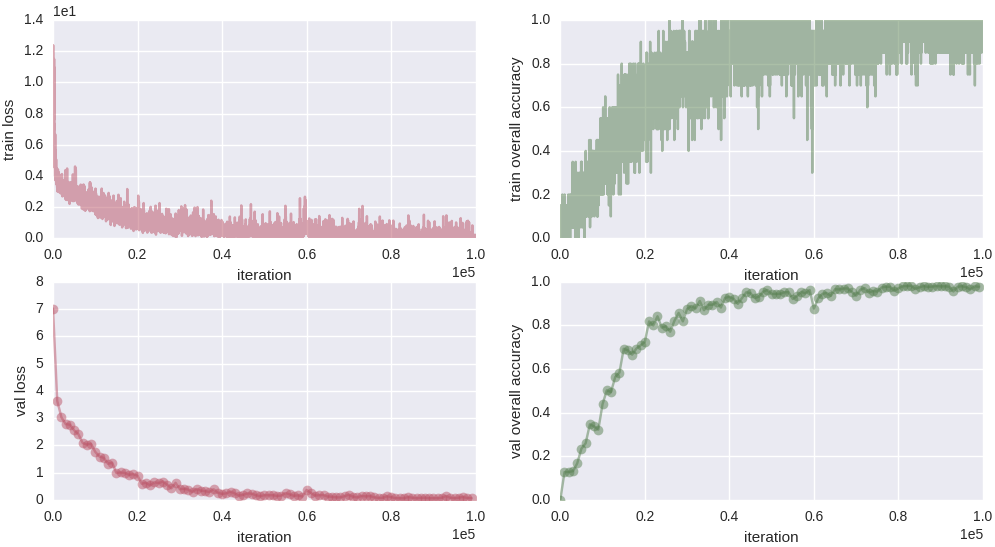
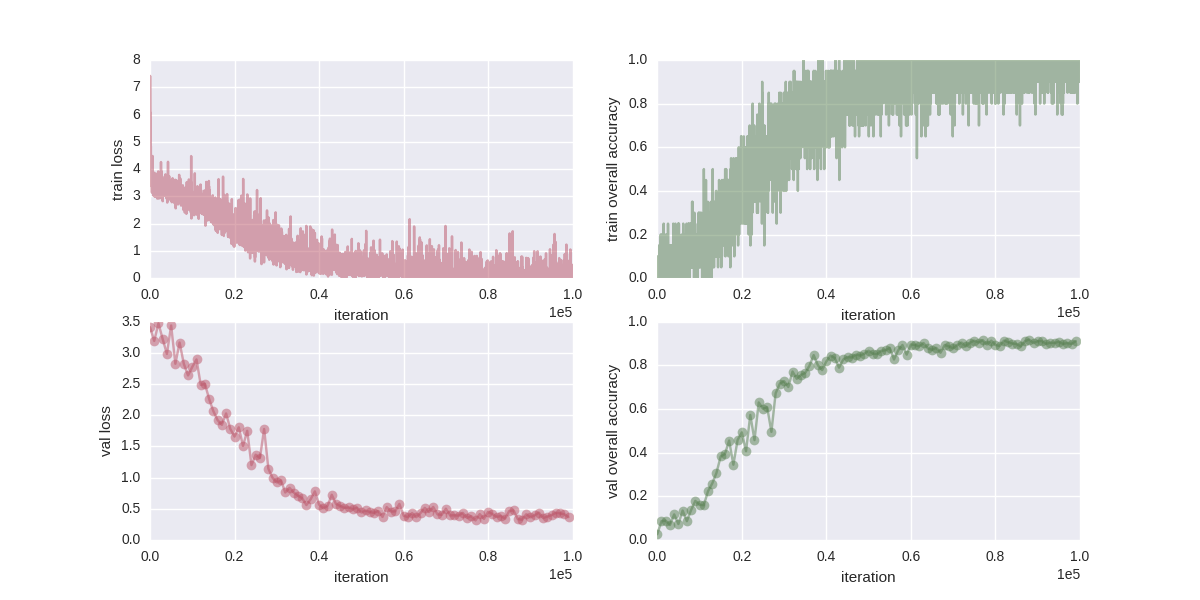
Add dataset of jsk20150428

diff --git a/examples/apc2015/apc2015.py b/examples/apc2015/apc2015.py
@@ -3,6 +3,7 @@
 from __future__ import division
 from __future__ import print_function
 
+from collections import defaultdict
 import cPickle as pickle
 import glob
 import os.path as osp
@@ -62,8 +63,12 @@ class APC2015(Bunch):
         self.mask_files = []
         self.target = []
 
+        self.datasets = defaultdict(list)
         self._load_berkeley()
         self._load_rbo()
+        self._load_jsk20150428()
+        for name, ids in self.datasets.items():
+            print('Loaded {0}: {1}'.format(name, len(ids)))
 
         self.ids = np.array(self.ids)
         self.img_files = np.array(self.img_files)
@@ -81,13 +86,16 @@ class APC2015(Bunch):
         for label_value, label_name in enumerate(self.target_names):
             img_file_glob = osp.join(
                 dataset_dir, label_name, '*.jpg')
-            for img_file in glob.glob(img_file_glob):
+            for i, img_file in enumerate(glob.glob(img_file_glob)):
+                if i % 15 != 0:
+                    continue
                 img_id = re.sub('.jpg$', '', osp.basename(img_file))
                 mask_file = osp.join(
                     dataset_dir, label_name, 'masks',
                     img_id + '_mask.jpg')
                 id_ = osp.join('berkeley', label_name, img_id)
                 self.ids.append(id_)
+                self.datasets['berkeley'].append(id_)
                 self.img_files.append(img_file)
                 self.mask_files.append(mask_file)
                 self.target.append(label_value)
@@ -104,8 +112,25 @@ class APC2015(Bunch):
                 img_file = osp.join(dataset_dir, label_name, img_id + '.jpg')
                 id_ = osp.join('rbo', img_id)
                 self.ids.append(id_)
+                self.datasets['rbo'].append(id_)
                 self.img_files.append(img_file)
                 self.mask_files.append(mask_file)
+                self.target.append(label_value)
+
+    def _load_jsk20150428(self):
+        """Load jsk 20150428 dataset"""
+        dataset_dir = osp.join(this_dir, 'dataset/jsk20150428')
+        for label_value, label_name in enumerate(self.target_names):
+            img_file_glob = osp.join(dataset_dir, label_name, '*.jpg')
+            for i, img_file in enumerate(glob.glob(img_file_glob)):
+                if i % 15 != 0:
+                    continue
+                img_id = re.sub('.jpg$', '', osp.basename(img_file))
+                id_ = osp.join('jsk20150428', img_id)
+                self.ids.append(id_)
+                self.datasets['jsk20150428'].append(id_)
+                self.img_files.append(img_file)
+                self.mask_files.append(None)
                 self.target.append(label_value)
 
     def rgb_to_blob(self, rgb):
@@ -139,9 +164,10 @@ class APC2015(Bunch):
                 img_file = self.img_files[index]
                 mask_file = self.mask_files[index]
                 img = imread(img_file, mode='RGB')
-                mask = imread(mask_file, mode='L')
-                img = fcn.util.apply_mask(img, mask, crop=True,
-                                          fill_black=False)
+                if mask_file is not None:
+                    mask = imread(mask_file, mode='L')
+                    img = fcn.util.apply_mask(img, mask, crop=True,
+                                            fill_black=False)
                 xi = self.rgb_to_blob(img)
                 xt = {'x': xi, 't': ti}
                 self.db.put(str(id_), pickle.dumps(xt))

diff --git a/examples/apc2015/test.py b/examples/apc2015/test.py
@@ -1,0 +1,96 @@
+#!/usr/bin/env python
+
+from __future__ import absolute_import
+from __future__ import division
+from __future__ import print_function
+
+import argparse
+import os
+import os.path as osp
+import tempfile
+
+from chainer import cuda
+import chainer.serializers as S
+from chainer import Variable
+import cv2
+import numpy as np
+from scipy.misc import imsave
+from skimage.util import img_as_float
+from skimage.color import rgb2gray
+from skimage.color import gray2rgb
+
+import apc2015
+import fcn.util
+from vgg16 import VGG16
+
+
+def draw_test_result(dataset, fname, x_data, label_true, label_pred, n_class):
+    cmap = fcn.util.labelcolormap(n_class)
+
+    imgs = []
+    for i, blob in enumerate(x_data):
+        rgb = dataset.blob_to_rgb(blob)
+        rgb = rgb.copy()  # FIXME: this is required to put text
+        if label_true[i] != label_pred[i]:
+            gray = img_as_float(rgb2gray(rgb))
+            rgb = np.array([1.0, 0, 0]) * 0.3 + gray2rgb(gray) * 0.7
+            rgb = (rgb * 255).astype(np.uint8)
+        rgb[:20, :] = cmap[label_pred[i]] * 255
+        cv2.putText(rgb, dataset.target_names[label_pred[i]],
+                    org=(0, 15), fontFace=cv2.FONT_HERSHEY_SIMPLEX,
+                    fontScale=0.5, color=(255, 255, 255), thickness=1)
+        imgs.append(rgb)
+
+    result_img = fcn.util.get_tile_image(imgs)
+    imsave(fname, result_img)
+
+
+def main():
+    parser = argparse.ArgumentParser()
+    parser.add_argument('--gpu', type=int, default=0)
+    args = parser.parse_args()
+
+    gpu = args.gpu
+
+    save_dir = 'test_result'
+    if not osp.exists(save_dir):
+        os.makedirs(save_dir)
+
+    dataset = apc2015.APC2015(tempfile.mktemp())
+    n_class = len(dataset.target_names)
+
+    model = VGG16(n_class=n_class)
+    S.load_hdf5('snapshot/vgg16_96000.chainermodel', model)
+    if gpu != -1:
+        model.to_gpu(gpu)
+
+    batch_size = 25
+    index = 0
+    for index_start in xrange(0, len(dataset.test), batch_size):
+        indices = range(index_start,
+                        min(len(dataset.test), index_start + batch_size))
+        x, t = dataset.next_batch(batch_size, type='test',
+                                  type_indices=indices)
+        if gpu != -1:
+            x = cuda.to_gpu(x, gpu)
+            t = cuda.to_gpu(t, gpu)
+        x = Variable(x, volatile=True)
+        t = Variable(t, volatile=True)
+        model(x, t)
+
+        x_data = cuda.to_cpu(x.data)
+        accuracy = float(cuda.to_cpu(model.acc.data))
+        score = cuda.to_cpu(model.pred.data)
+        label_true = cuda.to_gpu(t.data)
+        label_pred = score.argmax(axis=1)
+
+        fname = 'test_{0}-{1}_{2:.2}.png'.format(
+            indices[0], indices[-1], accuracy)
+        fname = osp.join(save_dir, fname)
+        draw_test_result(dataset, fname, x_data,
+                         label_true, label_pred, n_class)
+        print('Saved {0}.'.format(fname))
+
+
+if __name__ == '__main__':
+    main()
